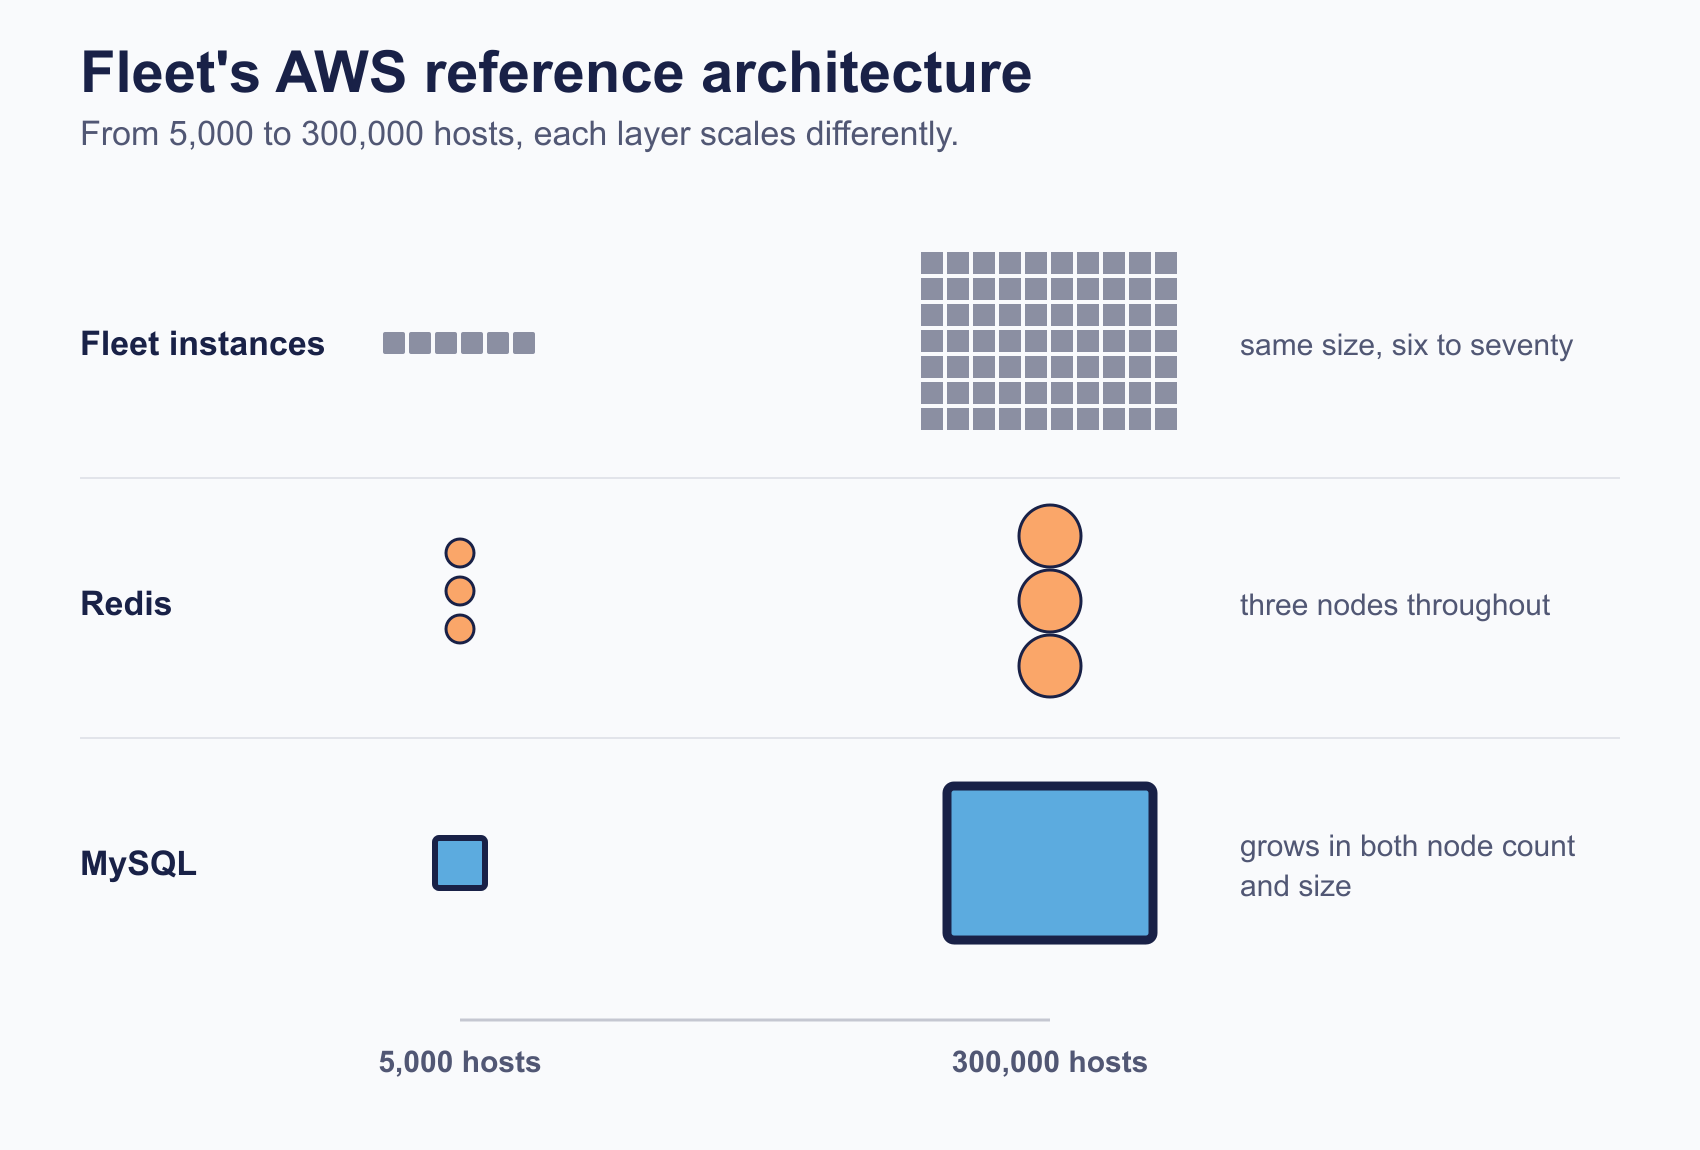
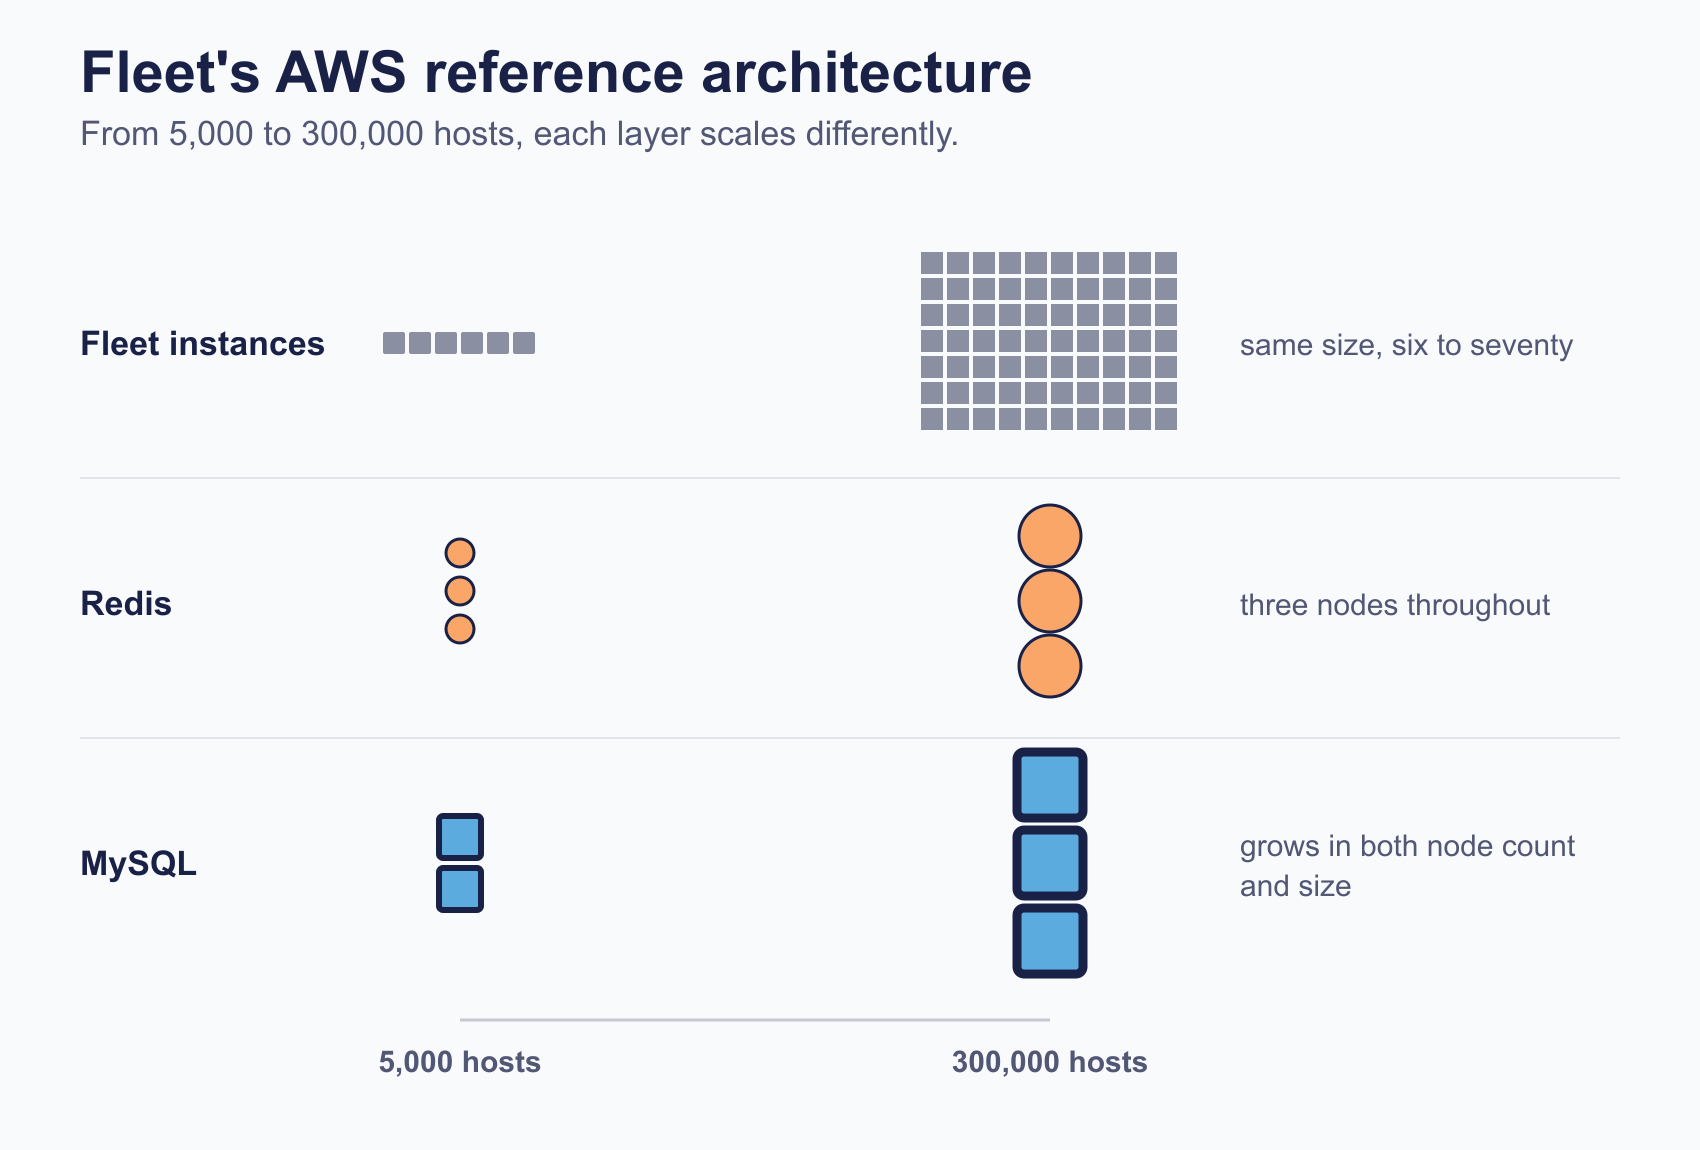
Accept the 2.2 scaling diagram (v2): MySQL now shows count and size
The MySQL claim verified against 2.2's own reference table (2 nodes ->
3 nodes, db.t4g.medium -> db.r6g.8xlarge), so 'grows in both node count
and size' is accurate. The visual now draws two blocks growing to three
larger blocks to carry both. Marked IMAGE-OK.

Changed region(s): [[0.53, 0.6391, 0.6859, 0.8522], [0.2494, 0.7, 0.3118, 0.7913]]

diff --git a/manual/02-administer-and-deploy-fleet/2.2-self-hosting-architecture-and-capacity.md b/manual/02-administer-and-deploy-fleet/2.2-self-hosting-architecture-and-capacity.md
@@ -64,7 +64,11 @@ The practical consequence is that the sizing conversation you need to have with 
 
 ![Fleet's AWS reference architecture, from 5,000 to 300,000 hosts, on one shared host-count axis. The Fleet instances layer scales out, from six same-size squares to about seventy. Redis stays three nodes throughout but each node is larger. MySQL grows in both node count and size, drawn as one small block becoming a much larger one.](assets/2.2-what-scales.webp)
 
-<!-- IMAGE-TODO: assets/2.2-what-scales.webp
+<!-- IMAGE-OK: assets/2.2-what-scales.webp
+     NOTE: accepted 2026-08-30. Sol diagram recipe (HANDOFF); working prompt at
+     reviews/phase2/imgtest3/scale-v2-prompt.txt. Brief de-AI'd (dropped the 'sixty times the
+     hosts' slogan) and corrected: MySQL is drawn 2 blocks -> 3 larger blocks to match the
+     reference table (2 to 3 nodes, and up in size), so the visual carries both count and size.
      PROMPT: Landscape 16:9. Three horizontal tracks stacked vertically, sharing one x-axis
      labelled at the left "5,000 hosts" and at the right "300,000 hosts". Title the whole
      figure "Fleet's AWS reference architecture" so it is not read as a universal rule. Top
